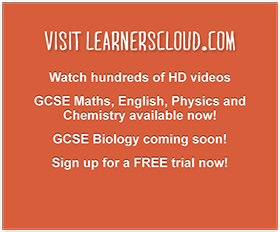
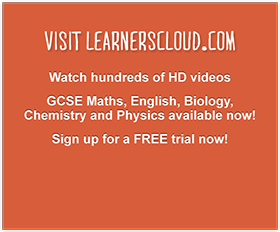
promo

Changed region(s): [[0.0857, 0.3922, 0.9143, 0.5431], [0.1714, 0.6638, 0.8286, 0.7543], [0.1714, 0.5733, 0.8286, 0.6336]]

diff --git a/VideoPlayer.m b/VideoPlayer.m
@@ -16,22 +16,21 @@
 
 #define SCREEN_WIDTH 320
 #define SCREEN_HEIGHT 370
-
 //Old code
 /*- (void)moviePlaybackComplete:(NSNotification *)notification  {  
-	
-	moviePlayerController = [notification object];  
-	[[NSNotificationCenter defaultCenter] removeObserver:self  
-													name:MPMoviePlayerPlaybackDidFinishNotification  
-												  object:moviePlayerController];  
-	
-	[moviePlayerController.view removeFromSuperview];  
-	[moviePlayerController release]; 
-	[self.navigationController setNavigationBarHidden:NO animated:YES];
-	[self.navigationController popViewControllerAnimated:YES];
-	
-	
-} */ 
+ 
+ moviePlayerController = [notification object];  
+ [[NSNotificationCenter defaultCenter] removeObserver:self  
+ name:MPMoviePlayerPlaybackDidFinishNotification  
+ object:moviePlayerController];  
+ 
+ [moviePlayerController.view removeFromSuperview];  
+ [moviePlayerController release]; 
+ [self.navigationController setNavigationBarHidden:NO animated:YES];
+ [self.navigationController popViewControllerAnimated:YES];
+ 
+ 
+ } */ 
 
 - (void)movieFinishedCallback:(NSNotification*) notification  {  
 	
@@ -40,7 +39,7 @@
     if (![[GANTracker sharedTracker] trackEvent:@"Finished playing video"
                                          action:@"Playing Finished"
                                           label:@"Playing Finished"
-                                          value:69
+                                          value:1
                                       withError:&error]) {
         NSLog(@"error in trackEvent");
     }
@@ -70,11 +69,12 @@
 }
 
 -(void)viewWillAppear:(BOOL)animated{
-    
-   EvaluatorAppDelegate *appDelegate = (EvaluatorAppDelegate *)[UIApplication sharedApplication].delegate;
-
-     if(appDelegate.isDeviceConnectedToInternet){
 	
+    EvaluatorAppDelegate *appDelegate = (EvaluatorAppDelegate *)[UIApplication sharedApplication].delegate;
+    
+    if(appDelegate.isDeviceConnectedToInternet){
+
+        
     NSError *error;
     // Report to  analytics
     if (![[GANTracker sharedTracker] trackPageview:@"/VideoPlayer"
@@ -83,41 +83,46 @@
     }
     
     
-    if([VideoFileName isEqualToString:@"Maths"]){
+        if([VideoFileName isEqualToString:@"Maths"]){
+            
+            ServerLocation = @"http://learnerscloud.com/iosStreamv2/maths/MathsTtrailerv6";
+        }
+        else if ([VideoFileName isEqualToString:@"English"]){
+            
+            ServerLocation = @"http://learnerscloud.com/iosStreamv2/english/EnglishTrailerv5";
+            
+        }
+        else if ([VideoFileName isEqualToString:@"Physics"]){
+            
+            ServerLocation = @"http://learnerscloud.com/iosStreamv2/Physics/PhysicsTrailerV5";
+            
+        }
+        else if ([VideoFileName isEqualToString:@"Chemistry"]){
+            
+            ServerLocation = @"http://learnerscloud.com/iosStreamv2/Chemistry/ChemistryPromoFINAL";
+            
+        }
+        else if ([VideoFileName isEqualToString:@"Biology"]){
+            
+            ServerLocation = @"http://learnerscloud.com/iosStreamv2/Biology/BIO-Trailer";
+            
+        }
         
-        ServerLocation = @"http://learnerscloud.com/iosStream/maths/MathsTtrailerv6";
-    }
-    else if ([VideoFileName isEqualToString:@"English"]){
-        
-        ServerLocation = @"http://learnerscloud.com/iosStream/english/EnglishTrailerv5";
-        
-    }
-    else if ([VideoFileName isEqualToString:@"Physics"]){
-        
-        ServerLocation = @"http://learnerscloud.com/iosStream/Physics/PhysicsTrailerV5";
-        
-    }
-    else if ([VideoFileName isEqualToString:@"Chemistry"]){
-        
-        ServerLocation = @"http://learnerscloud.com/iosStream/Chemistry/ChemistryPromoFINAL";
-        
-    }
-
     
     //Authentication Details here
     
     NSURLCredential *credential1 = [[NSURLCredential alloc] 
-                                    initWithUser:@"Theta"
-                                    password:@"Ffk7acay@#"
+                                    initWithUser:@"iosuser"
+                                    password:@"letmein2"
                                     persistence: NSURLCredentialPersistenceForSession];
     self.credential = credential1;
     
-    NSString *DomainLocation = @"learnerscloud.com";
+    NSString *DomainLocation = @"www.learnerscloud.com";
     
     NSURLProtectionSpace *protectionSpace1 = [[NSURLProtectionSpace alloc]
                                               initWithHost: DomainLocation 
-                                              port:80
-                                              protocol:@"http"
+                                              port:443
+                                              protocol:@"https"
                                               realm: DomainLocation   
                                               authenticationMethod:NSURLAuthenticationMethodDefault];
     self.protectionSpace = protectionSpace1;
@@ -140,36 +145,37 @@
 											   object:[moviePlayerViewController moviePlayer]];
     
     [self presentMoviePlayerViewControllerAnimated:moviePlayerViewController];
-	
-     }
     
-     else{
-         
-         NSString *message = [[NSString alloc] initWithFormat:@"Your device is not connected to the internet. You need access to the internet to stream our videos "];
-         
-         UIAlertView *alert =[[UIAlertView alloc] initWithTitle:@"Important Notice"
-                                                        message:message delegate:self cancelButtonTitle:@"OK" otherButtonTitles:nil];
-         
-         [alert show];
-         [message release];
-         [alert release];
-         
-         [self.navigationController popViewControllerAnimated:YES];
-         
-     }
+    }
+    
+    else{
+        
+        NSString *message = [[NSString alloc] initWithFormat:@"Your device is not connected to the internet. You need access to the internet to stream our videos "];
+        
+        UIAlertView *alert =[[UIAlertView alloc] initWithTitle:@"Important Notice"
+                                                       message:message delegate:self cancelButtonTitle:@"OK" otherButtonTitles:nil];
+        
+        [alert show];
+        [message release];
+        [alert release];
+        
+        [self.navigationController popViewControllerAnimated:YES];
+        
+    }
+
+	
 }
+
 
 
 - (void)viewWillDisappear:(BOOL)animated {
 	
 	//old code
 	/*[moviePlayerController stop];
-	[self.navigationController setNavigationBarHidden:NO animated:YES]; */
+     [self.navigationController setNavigationBarHidden:NO animated:YES]; */
 	
     [moviePlayerViewController.moviePlayer stop];
 }
-
-
 
 // For ios 6
 -(NSUInteger)supportedInterfaceOrientations{
@@ -179,9 +185,12 @@
 }
 
 // for ios 5
+
+
 - (BOOL)shouldAutorotateToInterfaceOrientation:(UIInterfaceOrientation)interfaceOrientation {
     
-    return  (interfaceOrientation == UIInterfaceOrientationPortrait);
+   return  (interfaceOrientation == UIInterfaceOrientationPortrait);
+	
 	
 }
 
@@ -191,7 +200,7 @@
 		//old code
 		//[moviePlayerController.view setFrame:CGRectMake(0, -10, SCREEN_WIDTH, SCREEN_HEIGHT + 120)];
 		[[moviePlayerViewController view] setFrame:CGRectMake(0, -10, SCREEN_WIDTH, SCREEN_HEIGHT + 120)];
-	
+        
 	}
 	
 	else {
@@ -204,6 +213,7 @@
 	
 	
 }
+
 
 
 - (void)didReceiveMemoryWarning {

diff --git a/LearnersCloudSamplesVideos.m b/LearnersCloudSamplesVideos.m
@@ -51,8 +51,8 @@
 	[ImageNames addObject:@"Physics.png"];
 	[listofItems addObject:@"   Chemistry - Trailer"];
 	[ImageNames addObject:@"Chemistry.png"];
-//	[listofItems addObject:@"French"];
-//	[ImageNames addObject:@"French.png"];
+    [listofItems addObject:@"    Biology - Trailer"];
+    [ImageNames addObject:@"Biology.png"];
 //	[listofItems addObject:@"Batteries"];
 //	[ImageNames addObject:@"Batteries.png"];
 //	[listofItems addObject:@"The Ruined Maid"];
@@ -270,6 +270,18 @@
 			VP4.hidesBottomBarWhenPushed = YES;
 			[self.navigationController pushViewController:VP4 animated:YES];
 			[VP4 release];
+			
+			
+			
+			break;
+            
+        case 4:
+			;
+			VideoPlayer *VP5 = [[VideoPlayer	alloc] initWithNibName:nil bundle:nil];
+			VP5.VideoFileName =@"Biology";
+			VP5.hidesBottomBarWhenPushed = YES;
+			[self.navigationController pushViewController:VP5 animated:YES];
+			[VP5 release];
 			
 			
 			
